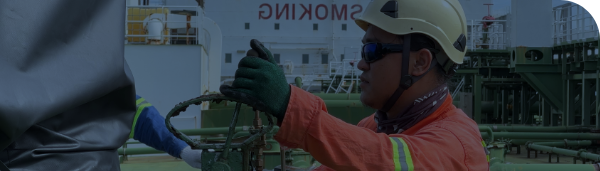
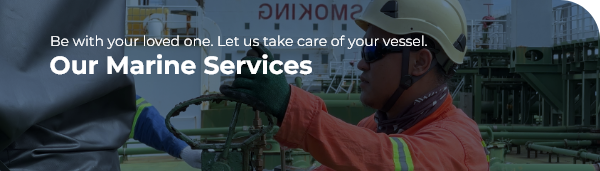
push images
Push images

Changed region(s): [[0.06, 0.2047, 0.72, 0.2924], [0.06, 0.3216, 0.54, 0.4386]]

diff --git a/template.html b/template.html
@@ -1,0 +1,212 @@
+<!DOCTYPE HTML PUBLIC "-//W3C//DTD HTML 4.01 Transitional//EN" "http://www.w3.org/TR/html4/loose.dtd">
+<html lang="en">
+<head>
+  <meta http-equiv="Content-Type" content="text/html; charset=UTF-8">
+  <meta name="viewport" content="width=device-width, initial-scale=1">
+  <meta http-equiv="X-UA-Compatible" content="IE=edge">
+  <title>Selamat Hari Raya Aidilfitri</title>
+  <style type="text/css">
+    
+    /* Outlines the grids, remove when sending */
+    table td { border: 1px solid cyan; }
+    /* CLIENT-SPECIFIC STYLES */
+    body, table, td, a { -webkit-text-size-adjust: 100%; -ms-text-size-adjust: 100%; }
+    table, td { mso-table-lspace: 0pt; mso-table-rspace: 0pt; }
+    img { -ms-interpolation-mode: bicubic; }
+    /* RESET STYLES */
+    img { border: 0; outline: none; text-decoration: none; }
+    table { border-collapse: collapse !important; }
+    body { margin: 0 !important; padding: 0 !important; width: 100% !important; }
+    /* iOS BLUE LINKS */
+    a[x-apple-data-detectors] {
+      color: inherit !important;
+      text-decoration: none !important;
+      font-size: inherit !important;
+      font-family: inherit !important;
+      font-weight: inherit !important;
+      line-height: inherit !important;
+    }
+    /* ANDROID CENTER FIX */
+    div[style*="margin: 16px 0;"] { margin: 0 !important; }
+    /* MEDIA QUERIES */
+    @media all and (max-width:639px){ 
+      .wrapper{ width:320px!important; padding: 0 !important; }
+      .container{ width:300px!important;  padding: 0 !important; }
+      .mobile{ width:300px!important; display:block!important; padding: 0 !important; }
+      .img{ width:100% !important; height:auto !important; }
+      *[class="mobileOff"] { width: 0px !important; display: none !important; }
+      *[class*="mobileOn"] { display: block !important; max-height:none !important; }
+    }
+  </style>    
+</head>
+<body style="margin:0; padding:0; background-color:#F2F2F2;">
+
+  <span style="display: block; width: 600px !important; max-width: 600px; height: 1px" class="mobileOff"></span>
+
+  <center>
+    <table width="100%" border="0" cellpadding="0" cellspacing="0" bgcolor="#F2F2F2">
+      <tr>
+        <td align="center" valign="top">
+            
+          <table width="600" cellpadding="0" cellspacing="0" border="0" class="wrapper" bgcolor="#FFFFFF">
+            <tr>
+              <td align="center" valign="top">
+                <table width="600" cellpadding="0" cellspacing="0" border="0" class="container">
+                  <tr>
+                    <td align="center" valign="top">
+                        <img src="https://cdn.jsdelivr.net/gh/izz133/aidilfitri-isc/images/hero.gif" alt="Selamat Hari Raya Aidilfitri" width="600" height="600" style="width: 600px;height: 600px;border-radius: 0 0 0 50px;box-shadow: rgb(0, 0, 0, .5) 0 5px 15px;">
+                    </td>
+                  </tr>
+                </table>
+              </td>
+            </tr>
+          </table>
+
+          <table width="600" cellpadding="0" cellspacing="0" border="0" class="wrapper" bgcolor="#FFFFFF">
+            <tr>
+              <td align="center" valign="top">
+                <table width="600" cellpadding="0" cellspacing="0" border="0" class="container">
+                  <tr>
+                    <td align="center" valign="top">
+                        <p width="500" style="width: 500px;margin: 50px auto;text-align: justify;line-height: 1.5;">With warm regards, International Shipcare would like to send the best wishes of Hari Raya Aidilfitri 
+                            to all our Muslim friends and family! This is the day to celebrate your victory and the end of Ramadan, 
+                            the holy month of fasting and spiritual growth. Put on a smile and enjoy this festive occasion with your 
+                            loved ones, feasting on delicious delicacies and sweets. May this day bring you peace, joy and blessings.
+                        </p>
+                    </td>
+                  </tr>
+                </table>
+              </td>
+            </tr>
+          </table>
+
+          <table width="600" cellpadding="0" cellspacing="0" border="0" class="wrapper" bgcolor="#FFFFFF">
+            <tr>
+              <td align="center" valign="top">
+                <table width="600" cellpadding="0" cellspacing="0" border="0" class="container">
+                  <tr>
+                    <img src="https://cdn.jsdelivr.net/gh/izz133/aidilfitri-isc/images/services.png">
+                    <td align="left" valign="top">
+                        <p style="font-size: 14px;color: #000;">Be with your loved one. Let us take care of your vessel.</p>
+                        <h2 style="font-size: 25px;color: #000;">Our Marine Services</h2>
+                    </td>
+                  </tr>
+                </table>
+              </td>
+            </tr>
+          </table>
+
+
+          <table width="640" cellpadding="0" cellspacing="0" border="0" class="wrapper" bgcolor="#FFFFFF">
+            <tr>
+              <td height="10" style="font-size:10px; line-height:10px;">&nbsp;</td>
+            </tr>
+            <tr>
+              <td align="center" valign="top">
+                <table width="600" cellpadding="0" cellspacing="0" border="0" class="container">
+                  <tr>
+                    <td width="300" class="mobile" align="center" valign="top">
+                      Grid Two
+                    </td>
+                    <td width="300" class="mobile" align="center" valign="top">
+                      Grid Two
+                    </td>
+                  </tr>
+                </table>
+              </td>
+            </tr>
+            <tr>
+              <td height="10" style="font-size:10px; line-height:10px;">&nbsp;</td>
+            </tr>
+          </table>
+          <table width="640" cellpadding="0" cellspacing="0" border="0" class="wrapper" bgcolor="#FFFFFF">
+            <tr>
+             <td height="10" style="font-size:10px; line-height:10px;">&nbsp;</td>
+            </tr>
+            <tr>
+              <td align="center" valign="top">
+                <table width="600" cellpadding="0" cellspacing="0" border="0" class="container">
+                  <tr>
+                      <td width="200" class="mobile" align="center" valign="top">
+                        Grid Three
+                      </td>
+                      <td width="200" class="mobile" align="center" valign="top">
+                        Grid Three
+                      </td>
+                      <td width="200" class="mobile" align="center" valign="top">
+                        Grid Three
+                      </td>
+                  </tr>
+                </table>
+              </td>
+            </tr>
+            <tr>
+              <td height="10" style="font-size:10px; line-height:10px;">&nbsp;</td>
+            </tr>
+          </table>
+          <table width="640" cellpadding="0" cellspacing="0" border="0" class="wrapper" bgcolor="#FFFFFF">
+            <tr>
+              <td height="10" style="font-size:10px; line-height:10px;">&nbsp;</td>
+            </tr>
+            <tr>
+              <td align="center" valign="top">
+                <table width="600" cellpadding="0" cellspacing="0" border="0" class="container">
+                  <tr>
+                    <td width="150" class="mobile" align="center" valign="top">
+                      Grid Four
+                    </td>
+                    <td width="150" class="mobile" align="center" valign="top">
+                      Grid Four
+                    </td>
+                    <td width="150" class="mobile" align="center" valign="top">
+                      Grid Four
+                    </td>
+                    <td width="150" class="mobile" align="center" valign="top">
+                      Grid Four
+                    </td>
+                  </tr>
+                </table>
+              </td>
+            </tr>
+            <tr>
+              <td height="10" style="font-size:10px; line-height:10px;">&nbsp;</td>
+            </tr>
+          </table>
+          <table width="640" cellpadding="0" cellspacing="0" border="0" class="wrapper" bgcolor="#FFFFFF">
+            <tr>
+              <td height="10" style="font-size:10px; line-height:10px;">&nbsp;</td>
+            </tr>
+            <tr>
+              <td align="center" valign="top">
+                <table width="600" cellpadding="0" cellspacing="0" border="0" class="container">
+                  <tr>
+                    <td width="120" class="mobile" align="center" valign="top">
+                      Grid Five
+                    </td>
+                    <td width="120" class="mobile" align="center" valign="top">
+                      Grid Five
+                    </td>
+                    <td width="120" class="mobile" align="center" valign="top">
+                      Grid Five
+                    </td>
+                    <td width="120" class="mobile" align="center" valign="top">
+                      Grid Five
+                    </td>
+                    <td width="120" class="mobile" align="center" valign="top">
+                      Grid Five
+                    </td>
+                  </tr>
+                </table>
+              </td>
+            </tr>
+            <tr>
+              <td height="10" style="font-size:10px; line-height:10px;">&nbsp;</td>
+            </tr>
+          </table>
+            
+        </td>
+      </tr>
+    </table>
+  </center>
+</body>
+</html>

diff --git a/isc-aidilfitri.html b/isc-aidilfitri.html
@@ -1,0 +1,63 @@
+<html>
+
+<head>
+    <link rel="preconnect" href="https://fonts.googleapis.com">
+    <link rel="preconnect" href="https://fonts.gstatic.com" crossorigin>
+</head>
+
+<body style="width: 600px;margin: 0 auto;font-family: 'Montserrat', sans-serif;">
+    <div class="hero">
+        <img src="https://cdn.jsdelivr.net/gh/izz133/aidilfitri-isc/images/hero.gif" alt="Selamat Hari Raya Aidilfitri" style="width: 600px;height: 600px;border-radius: 0 0 0 50px;box-shadow: rgb(0, 0, 0, .5) 0 5px 15px;">
+        <p style="width: 500px;margin: 50px auto;text-align: justify;line-height: 1.5;">With warm regards, International Shipcare would like to send the best wishes of Hari Raya Aidilfitri 
+            to all our Muslim friends and family! This is the day to celebrate your victory and the end of Ramadan, 
+            the holy month of fasting and spiritual growth. Put on a smile and enjoy this festive occasion with your 
+            loved ones, feasting on delicious delicacies and sweets. May this day bring you peace, joy and blessings.
+        </p>
+    </div>
+    
+
+    <div class="services" style="width: 500px;height: 171px;background-image: url(https://cdn.jsdelivr.net/gh/izz133/aidilfitri-isc/images/services.png);box-shadow: rgb(0, 0, 0, .5) 0 5px 15px;border-radius: 0 50px 0 0;padding: 0 50px;">
+        <p style="font-size: 14px;color: #fff;padding-top: 30px;">Be with your loved one. Let us take care of your vessel.</p>
+        <h2 style="font-size: 25px;color: #fff;margin-top: -15px;">Our Marine Services</h2>
+    </div>
+
+    <div class="service-card" style="width: 500px;height: 150px;margin: -75px auto 0;">
+        <div class="item" style="margin-right: 5px;border-top-left-radius: 20px;width: 160px;height: 150px;box-shadow: rgb(0, 0, 0, .3) 0 5px 10px;display: inline-block;background-color: #fff;">
+            <img src="https://cdn.jsdelivr.net/gh/izz133/aidilfitri-isc/images/layup.png" style="display: block;margin: 15px auto 0;">
+            <h3 style="font-size: 12px;text-align: center;margin-top: 5px;">Layup Services</h3>
+            <p style="width: 120px;margin: -7px auto 0;font-size: 10px;text-align: center;">Cold layup, Hot layup or custom layup plans.</p>
+            <a href="https://www.internationalshipcare.com/vessel-layup-services/" target="_blank" style="width: 160px;height: 25px;display: block;background-color: #0c2e82;color: #fff;font-size: 10px;text-decoration: none;text-align: center;line-height: 2.5;margin-top: 10px;">Learn More</a>
+        </div>
+
+        <div class="item" style="margin-right: 5px;width: 160px;height: 150px;box-shadow: rgb(0, 0, 0, .3) 0 5px 10px;display: inline-block;background-color: #fff;">
+            <img src="https://cdn.jsdelivr.net/gh/izz133/aidilfitri-isc/images/marine.png" style="display: block;margin: 15px auto 0;">
+            <h3 style="font-size: 12px;text-align: center;margin-top: 5px;">Marine Services</h3>
+            <p style="width: 120px;margin: -7px auto 0;font-size: 10px;text-align: center;">Statutory, Logistics and other marine services.</p>
+            <a href="https://www.internationalshipcare.com/other-services/" target="_blank" style="width: 160px;height: 25px;display: block;background-color: #0c2e82;color: #fff;font-size: 10px;text-decoration: none;text-align: center;line-height: 2.5;margin-top: 10px;">Learn More</a>
+        </div>
+
+        <div class="item" style="border-top-right-radius: 20px;width: 160px;height: 150px;box-shadow: rgb(0, 0, 0, .3) 0 5px 10px;display: inline-block;background-color: #fff;">
+            <img src="https://cdn.jsdelivr.net/gh/izz133/aidilfitri-isc/images/safety.png" style="display: block;margin: 15px auto 0;">
+            <h3 style="font-size: 12px;text-align: center;margin-top: 5px;">Safety</h3>
+            <p style="width: 120px;margin: -7px auto 0;font-size: 10px;text-align: center;">Security watch, daily inspection and others.</p>
+            <a href="https://www.internationalshipcare.com/other-services/" target="_blank" style="width: 160px;height: 25px;display: block;background-color: #0c2e82;color: #fff;font-size: 10px;text-decoration: none;text-align: center;line-height: 2.5;margin-top: 10px;">Learn More</a>
+        </div>
+    </div>
+
+    <div class="footer" style="width: 240px;margin: 65px auto 0;">
+        <a href="https://www.internationalshipcare.com/" target="_blank" style="width: 150px;"><img src="https://cdn.jsdelivr.net/gh/izz133/aidilfitri-isc/images/logo-color.png" alt="international shipcare logo"></a>
+        <div class="socials" style="margin: -25px 0 0 165px;">
+            <a href="https://www.facebook.com/internationalshipcare/" target="_blank" style="width: 150px;"><img src="https://cdn.jsdelivr.net/gh/izz133/aidilfitri-isc/images/facebook.png" alt="facebook"></a>
+            <a href="https://www.instagram.com/international_shipcare/" target="_blank" style="width: 150px;"><img src="https://cdn.jsdelivr.net/gh/izz133/aidilfitri-isc/images/instagram.png" alt="instagram"></a>
+            <a href="https://www.linkedin.com/in/international-shipcare/" target="_blank" style="width: 150px;"><img src="https://cdn.jsdelivr.net/gh/izz133/aidilfitri-isc/images/linkedin.png" alt="linkedin"></a>
+            <a href="https://www.youtube.com/@internationalshipcare8918/" target="_blank" style="width: 150px;"><img src="https://cdn.jsdelivr.net/gh/izz133/aidilfitri-isc/images/youtube.png" alt="youtube"></a>
+        </div>
+    </div>
+
+    <p class="disclaimer" style="width: 500px;margin: 30px auto;font-size: 8px;color: #707070;text-align: center;">We send our newsletter to update you on our news, products, offers, and events. The content of this 
+        newsletter is for informational purposes only and does not constitute professional advice. We respect 
+        your privacy and do not share your personal information with any third parties. This email is 
+        confidential and for the intended recipient only. We are not liable for any errors or external links.</p>
+</body>
+
+</html>

diff --git a/index.html b/index.html
@@ -1,6 +1,9 @@
+<!DOCTYPE html PUBLIC "-//W3C//DTD XHTML 1.0 Transitional//EN" "http://www.w3.org/TR/xhtml1/DTD/xhtml1-transitional.dtd">
 <html>
+ 
 
 <head>
+  	<meta http-equiv="Content-Type" content="text/html charset=UTF-8" />
     <link rel="preconnect" href="https://fonts.googleapis.com">
     <link rel="preconnect" href="https://fonts.gstatic.com" crossorigin>
     <link href="https://fonts.googleapis.com/css2?family=Montserrat:wght@400;700&display=swap" rel="stylesheet">
@@ -117,8 +120,10 @@
 
 <body>
 
+    
+
     <div class="hero">
-        <img src="images/hero.gif" alt="Selamat Hari Raya Aidilfitri">
+        <img src="https://cdn.jsdelivr.net/gh/izz133/aidilfitri-isc/images/hero.gif" alt="Selamat Hari Raya Aidilfitri">
         <p>With warm regards, International Shipcare would like to send the best wishes of Hari Raya Aidilfitri 
             to all our Muslim friends and family! This is the day to celebrate your victory and the end of Ramadan, 
             the holy month of fasting and spiritual growth. Put on a smile and enjoy this festive occasion with your 
@@ -134,21 +139,21 @@
 
     <div class="service-card">
         <div class="item" style="margin-right: 5px; border-top-left-radius: 20px;">
-            <img src="images/layup.png">
+            <img src="https://cdn.jsdelivr.net/gh/izz133/aidilfitri-isc/images/layup.png">
             <h3>Layup Services</h3>
             <p>Cold layup, Hot layup or custom layup plans.</p>
             <a href="https://www.internationalshipcare.com/vessel-layup-services/" target="_blank">Learn More</a>
         </div>
 
         <div class="item" style="margin-right: 5px;">
-            <img src="images/marine.png">
+            <img src="https://cdn.jsdelivr.net/gh/izz133/aidilfitri-isc/images/marine.png">
             <h3>Marine Services</h3>
             <p>Statutory, Logistics and other marine services.</p>
             <a href="https://www.internationalshipcare.com/other-services/" target="_blank">Learn More</a>
         </div>
 
         <div class="item" style="border-top-right-radius: 20px;">
-            <img src="images/safety.png">
+            <img src="https://cdn.jsdelivr.net/gh/izz133/aidilfitri-isc/images/safety.png">
             <h3>Safety</h3>
             <p>Security watch, daily inspection and others.</p>
             <a href="https://www.internationalshipcare.com/other-services/" target="_blank">Learn More</a>
@@ -156,12 +161,12 @@
     </div>
 
     <div class="footer">
-        <a href="https://www.internationalshipcare.com/" target="_blank"><img src="images/logo-color.png" alt="international shipcare logo"></a>
+        <a href="https://www.internationalshipcare.com/" target="_blank"><img src="https://cdn.jsdelivr.net/gh/izz133/aidilfitri-isc/images/logo-color.png" alt="international shipcare logo"></a>
         <div class="socials">
-            <a href="https://www.facebook.com/internationalshipcare/" target="_blank"><img src="images/facebook.png" alt="facebook"></a>
-            <a href="https://www.instagram.com/international_shipcare/" target="_blank"><img src="images/instagram.png" alt="instagram"></a>
-            <a href="https://www.linkedin.com/in/international-shipcare/" target="_blank"><img src="images/linkedin.png" alt="linkedin"></a>
-            <a href="https://www.youtube.com/@internationalshipcare8918/" target="_blank"><img src="images/youtube.png" alt="youtube"></a>
+            <a href="https://www.facebook.com/internationalshipcare/" target="_blank"><img src="https://cdn.jsdelivr.net/gh/izz133/aidilfitri-isc/images/facebook.png" alt="facebook"></a>
+            <a href="https://www.instagram.com/international_shipcare/" target="_blank"><img src="https://cdn.jsdelivr.net/gh/izz133/aidilfitri-isc/images/instagram.png" alt="instagram"></a>
+            <a href="https://www.linkedin.com/in/international-shipcare/" target="_blank"><img src="https://cdn.jsdelivr.net/gh/izz133/aidilfitri-isc/images/linkedin.png" alt="linkedin"></a>
+            <a href="https://www.youtube.com/@internationalshipcare8918/" target="_blank"><img src="https://cdn.jsdelivr.net/gh/izz133/aidilfitri-isc/images/youtube.png" alt="youtube"></a>
         </div>
     </div>
 
